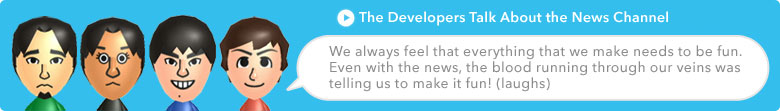
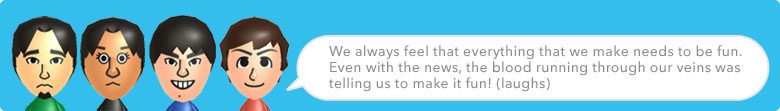
Improve index and change font
sSS

Changed region(s): [[0.4308, 0.0811, 0.8615, 0.2432]]

diff --git a/css/common.css b/css/common.css
@@ -7,8 +7,21 @@ body {
 	padding-right: 0px;
 	padding-bottom: 40px;
 	padding-left: 0px;
-	font-family: Verdana, Arial, Helvetica, sans-serif;
+	font-family: 'Open Sans', Verdana, Arial, Helvetica, sans-serif;
 	font-size: 9px;
+}
+
+h1 {
+	font-size: 5em !important;
+}
+
+#description {
+	font-size: 14px;
+}
+
+#heading {
+	font-size: 18px;
+	color: black !important;
 }
 
 #mainWrapper {
@@ -55,27 +68,27 @@ body {
 }
 
 a:link {
-	font-family: Verdana, Arial, Helvetica, sans-serif;
+	font-family: 'Open Sans', Verdana, Arial, Helvetica, sans-serif;
 	font-size: 9px;
 	text-decoration: none;
 	
 }
 a:visited {
-	font-family: Verdana, Arial, Helvetica, sans-serif;
+	font-family: 'Open Sans', Verdana, Arial, Helvetica, sans-serif;
 	font-size: 9px;
 	text-decoration: none;
 	color: #8c8c8c;
 }
 
 a:hover {
-	font-family: Verdana, Arial, Helvetica, sans-serif;
+	font-family: 'Open Sans', Verdana, Arial, Helvetica, sans-serif;
 	font-size: 9px;
 	text-decoration: underline;
 	color: #34beed;
 }
 
 a:active {
-	font-family: Verdana, Arial, Helvetica, sans-serif;
+	font-family: 'Open Sans', Verdana, Arial, Helvetica, sans-serif;
 	font-size: 9px;
 	text-decoration: none;
 	color: #8c8c8c;
@@ -99,7 +112,7 @@ a:active {
 	padding-top: 40px;
 }
 .footer_newsletter {
-	font-family: Verdana, Arial, Helvetica, sans-serif;
+	font-family: 'Open Sans', Verdana, Arial, Helvetica, sans-serif;
 	font-size: 9px;
 	font-weight: normal;
 	color: #34beed;
@@ -116,21 +129,21 @@ a:active {
 	padding-left: 0px;
 }
 .footerCopyrightText {
-	font-family: Verdana, Arial, Helvetica, sans-serif;
+	font-family: 'Open Sans', Verdana, Arial, Helvetica, sans-serif;
 	font-size: 9px;
 	font-weight: normal;
 	color: #999999;
 	text-decoration: none;
 }
 a.footerCopyright:link,a.footerCopyright:active,a.footerCopyright:visited {
-	font-family: Verdana, Arial, Helvetica, sans-serif;
+	font-family: 'Open Sans', Verdana, Arial, Helvetica, sans-serif;
 	font-size: 9px;
 	font-weight: normal;
 	color: #999999;
 	text-decoration: none;
 }
 a.footerCopyright:hover {
-	font-family: Verdana, Arial, Helvetica, sans-serif;
+	font-family: 'Open Sans', Verdana, Arial, Helvetica, sans-serif;
 	font-size: 9px;
 	font-weight: normal;
 	color: #34beed;
@@ -205,32 +218,32 @@ a.footerCopyright:hover {
 }
 
 #expVidsDetail p {
-	font-family: Verdana, Arial, Helvetica, sans-serif;
+	font-family: 'Open Sans', Verdana, Arial, Helvetica, sans-serif;
 	font-size: 9px;
 	color: #8C8C8C;
 	text-decoration: none;
 }
 
 #expVids dd {
-	font-family: Verdana, Arial, Helvetica, sans-serif;
+	font-family: 'Open Sans', Verdana, Arial, Helvetica, sans-serif;
 	font-size: 9px;
 	color: #8C8C8C;
 	text-decoration: none;
 }
 #expVids span {
-	font-family: Verdana, Arial, Helvetica, sans-serif;
+	font-family: 'Open Sans', Verdana, Arial, Helvetica, sans-serif;
 	font-size: 9px;
 	color: #8C8C8C;
 	text-decoration: none;
 }
 #expVids a:link,a:active,a:visited {
-	font-family: Verdana, Arial, Helvetica, sans-serif;
+	font-family: 'Open Sans', Verdana, Arial, Helvetica, sans-serif;
 	font-size: 9px;
 	color: #8C8C8C;
 	text-decoration: none;
 }
 #expVids a:hover {
-	font-family: Verdana, Arial, Helvetica, sans-serif;
+	font-family: 'Open Sans', Verdana, Arial, Helvetica, sans-serif;
 	font-size: 9px;
 	color: #34BEED;
 	text-decoration: underline;
@@ -303,7 +316,7 @@ a.footerCopyright:hover {
 /* un commented style for VidLeft Div */
 
 #featuresVidLeft dt {
-	font-family: Verdana, Arial, Helvetica, sans-serif;
+	font-family: 'Open Sans', Verdana, Arial, Helvetica, sans-serif;
 	font-size: 11px;
 	font-weight: bold;
 	color: #34beed;
@@ -316,7 +329,7 @@ a.footerCopyright:hover {
 /* changed fon from 9px to 11 px */
 
 #featuresVidLeft p {
-	font-family: Verdana, Arial, Helvetica, sans-serif;
+	font-family: 'Open Sans', Verdana, Arial, Helvetica, sans-serif;
 	font-size: 10px;
 	color: #8C8C8C;
 	font-weight: normal;
@@ -324,7 +337,7 @@ a.footerCopyright:hover {
 }
 
 .videoDate {
-	font-family: Verdana, Arial, Helvetica, sans-serif;
+	font-family: 'Open Sans', Verdana, Arial, Helvetica, sans-serif;
 	font-size: 9px;
 	font-weight: bold;
 	color: #34BEED;
@@ -342,7 +355,7 @@ a.videoDate:hover {
 a.videoText:hover {
 	text-decoration: underline;
 	color: #34beed;
-	font-family: Verdana, Arial, Helvetica, sans-serif;
+	font-family: 'Open Sans', Verdana, Arial, Helvetica, sans-serif;
 	font-size: 9px;
 }
 
@@ -350,7 +363,7 @@ a.videoText:hover {
 	font-weight: bold;
 	color: #8C8C8C;
 	text-decoration: none;
-	font-family: Verdana, Arial, Helvetica, sans-serif;
+	font-family: 'Open Sans', Verdana, Arial, Helvetica, sans-serif;
 	font-size: 9px;
 }
 
@@ -373,7 +386,7 @@ a.videoText:hover {
 
 
 #expVidsDetails a:hover {
-	font-family: Verdana, Arial, Helvetica, sans-serif;
+	font-family: 'Open Sans', Verdana, Arial, Helvetica, sans-serif;
 	font-size: 9px;
 	color: #34BEED;
 	text-decoration: underline;

diff --git a/index.html b/index.html
@@ -3,6 +3,8 @@
 <head>
 <meta name="title" content="Wii Channel Interviews" />
 <title>Wii Channel Interviews</title>
+<link href="https://fonts.googleapis.com/css2?family=Open+Sans:wght@400;600&display=swap" rel="stylesheet">
+
 <link href="css/wii_channel_gallery.css" rel="stylesheet" type="text/css" />
 <link href="css/common.css" rel="stylesheet" type="text/css" />
 
@@ -53,33 +55,50 @@ var root= "/";
   <div id="content">
 	  <div align="center">
 		  <h1>Wii Channel Interviews</h1>
-		  <h3><a href="https://rc24.xyz">RiiConnect24</a></h3>
-		  <p>You can read interviews with the developers of Wii Channels here. Learn how the Wii Channels were developed!</p>
+		  <p id="description">You can read interviews with the developers of Wii Channels here. Learn how the Wii Channels were developed!</p>
 	  </div>
-
-<div id="titlebar">
-	<table width="800" border="0" cellspacing="0" cellpadding="0">
-  <tr>
-    <td valign="top"><img src="images/features/title/title_wii_channel_lrg.gif" width="680" height="33" /></td>
-  </tr>
-</table>
-  </div>
 
  <div id="wiichannelGalleryNEW">
 
   <dl>
 
   <dt>  <table width="780" border="0" cellspacing="0" cellpadding="0">
-    <img src="images/features/channels/us_main_img.gif" width="780" height="243" />
-    <a href="story_miicontest.html"><img src="images/features/story/checkmiiout/story_banner.jpg"></a><br>
-    <a href="story_vote.html"><img src="images/features/story/vote/story_banner.jpg"></a><br>
-    <a href="story_forecast.html"><img src="images/features/story/forecast/story_banner.jpg" /></a>
-    <a href="story_internet.html"><img src="images/features/story/internet/story_banner.jpg"></a><br>
-    <a href="story_mii.html"><img src="images/features/story/mii/story_banner.jpg"></a><br>
-    <a href="story_home.html"><img src="images/features/story/story_banner.jpg"></a><br>
-    <a href="story_photo.html"><img src="images/features/story/photo/story_banner.jpg"></a><br>
-    <a href="story_gift.html"><img src="images/features/story/gift/story_banner.jpg"></a><br>
-    <a href="story_shop.html"><img src="images/features/story/shop/story_banner.jpg"></a>
+    <a href="story_miicontest.html">
+      <h2 align="center" id="heading">The Developers Talk about the Check Mii Out Channel</h2><br>
+      <img src="images/features/story/checkmiiout/story_banner.jpg"><br><br>
+    </a>
+    <a href="story_vote.html">
+      <h2 align="center" id="heading">The Developers Talk about the Everybody Votes Channel</h2>
+      <img src="images/features/story/vote/story_banner.jpg"><br><br>
+    </a>
+    <a href="story_forecast.html">
+      <h2 align="center" id="heading">The Developers Talk about the Forecast Channel</h2><br>
+      <img src="images/features/story/forecast/story_banner.jpg"><br><br>
+    </a>
+    <a href="story_internet.html">
+      <h2 align="center" id="heading">The Developers Talk about the Internet Channel</h2><br>
+      <img src="images/features/story/internet/story_banner.jpg"><br><br>
+    </a>
+    <a href="story_mii.html">
+      <h2 align="center" id="heading">The Developers Talk about the Mii Channel</h2><br>
+      <img src="images/features/story/mii/story_banner.jpg"><br><br>
+    </a>
+    <a href="story_home.html">
+      <h2 align="center" id="heading">The Developers Talk about the News Channel</h2><br>
+      <img src="images/features/story/story_banner.jpg"><br><br>
+    </a>
+    <a href="story_photo.html">
+      <h2 align="center" id="heading">The Developers Talk about the Photo Channel</h2><br>
+      <img src="images/features/story/photo/story_banner.jpg"><br><br>
+    </a>
+    <a href="story_gift.html">
+      <h2 align="center" id="heading">The Developers Talk about the Gifting Feature of the Wii Shop Channel</h2><br>
+      <img src="images/features/story/gift/story_banner.jpg"><br><br>
+    </a>
+    <a href="story_shop.html">
+      <h2 align="center" id="heading">The Developers Talk about the Wii Shop Channel</h2><br>
+      <img src="images/features/story/shop/story_banner.jpg"><br><br>
+    </a>
   </table>
   </dt>
   </dl>

diff --git a/story_miicontest.html b/story_miicontest.html
@@ -3,6 +3,9 @@
 <head>
 <meta http-equiv="Content-Type" content="text/html; charset=UTF-8" />
 <title>The Developers Talk About the Check Mii Out Channel</title>
+<link href="https://fonts.googleapis.com/css2?family=Open+Sans:wght@400;600&display=swap" rel="stylesheet">
+
+<link href="css/wii_channel_gallery.css" rel="stylesheet" type="text/css" />
 <link href="css/common.css" rel="stylesheet" type="text/css" />
 <link href="css/story_pg.css" rel="stylesheet" type="text/css" />
 <link href="https://cdnjs.cloudflare.com/ajax/libs/lity/2.2.2/lity.min.css" rel="stylesheet">

diff --git a/story_photo.html b/story_photo.html
@@ -2,6 +2,8 @@
 <html xmlns="http://www.w3.org/1999/xhtml">
 <head>
 <title>The Developers Talk about the Photo Channel</title>
+<link href="https://fonts.googleapis.com/css2?family=Open+Sans:wght@400;600&display=swap" rel="stylesheet">
+
 <link href="css/common.css" rel="stylesheet" type="text/css" />
 <link href="css/story_pg.css" rel="stylesheet" type="text/css" />
 <link href="https://cdnjs.cloudflare.com/ajax/libs/lity/2.2.2/lity.min.css" rel="stylesheet">

diff --git a/css/story_pg.css b/css/story_pg.css
@@ -47,7 +47,6 @@
 .middle_L {
 	padding-left: 50px;
 	padding-right: 30px;
-	font-family: Verdana, Arial, Helvetica, sans-serif;
 	font-size: 12px;
 	color: #666666;
 	text-align: left;
@@ -57,7 +56,6 @@
 .middle_R {
 	padding-left: 30px;
 	padding-right: 50px;
-	font-family: Verdana, Arial, Helvetica, sans-serif;
 	font-size: 12px;
 	color: #666666;
 	text-align: left;
